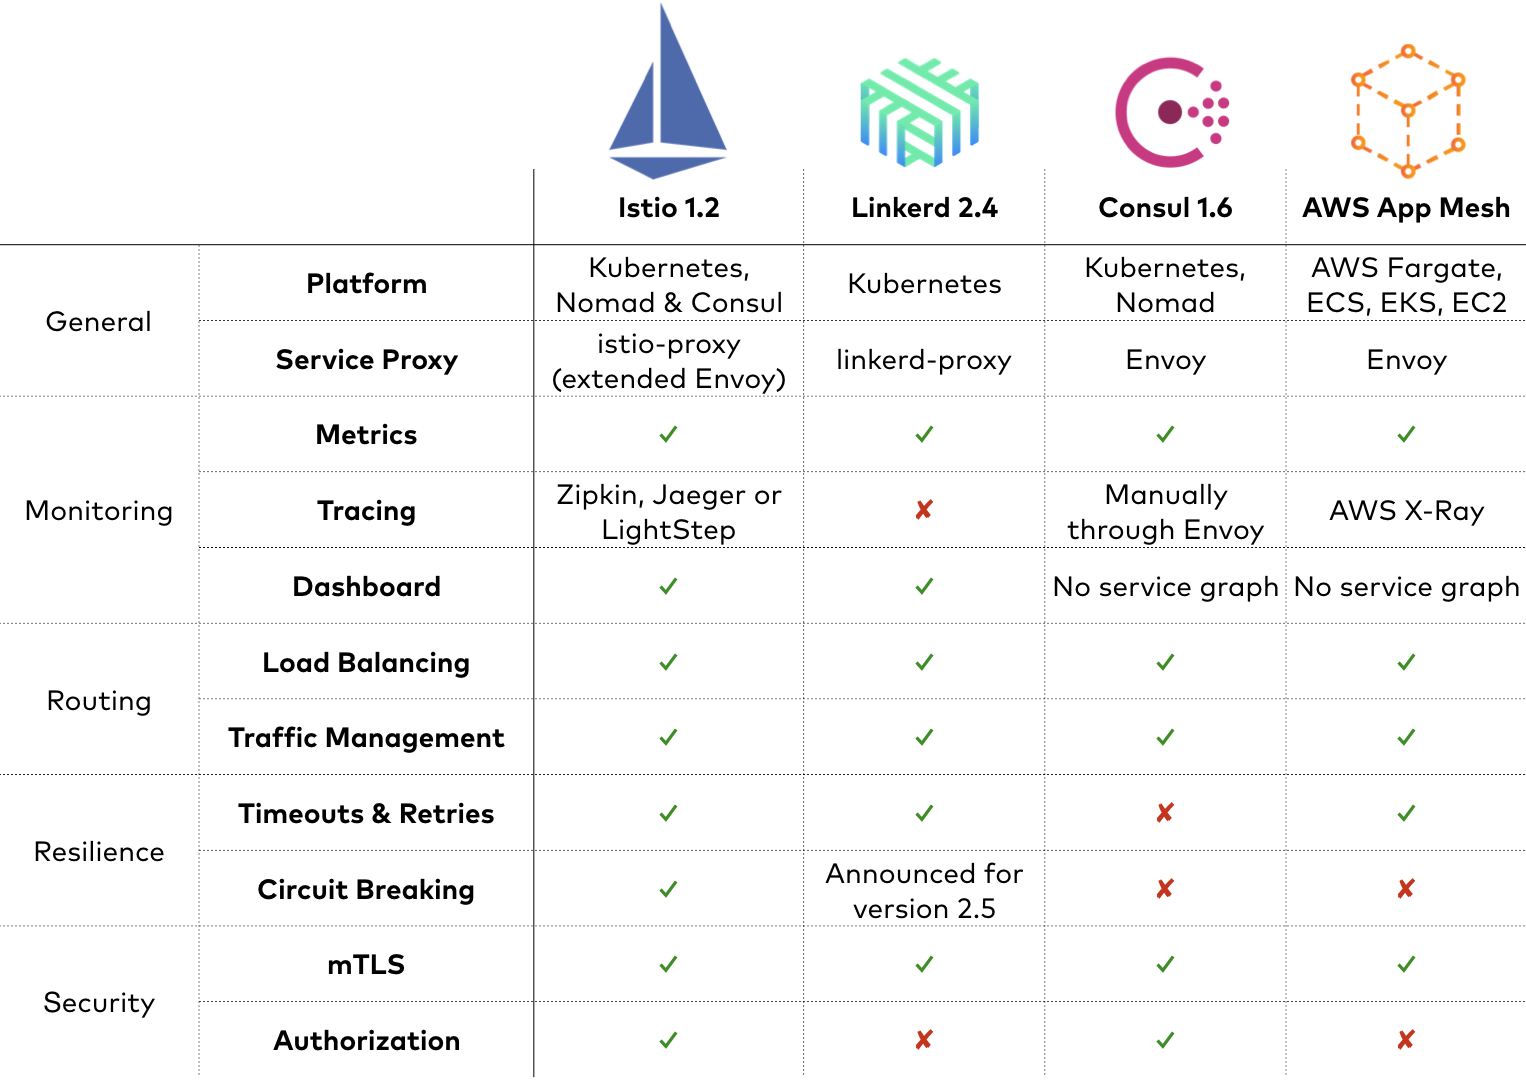
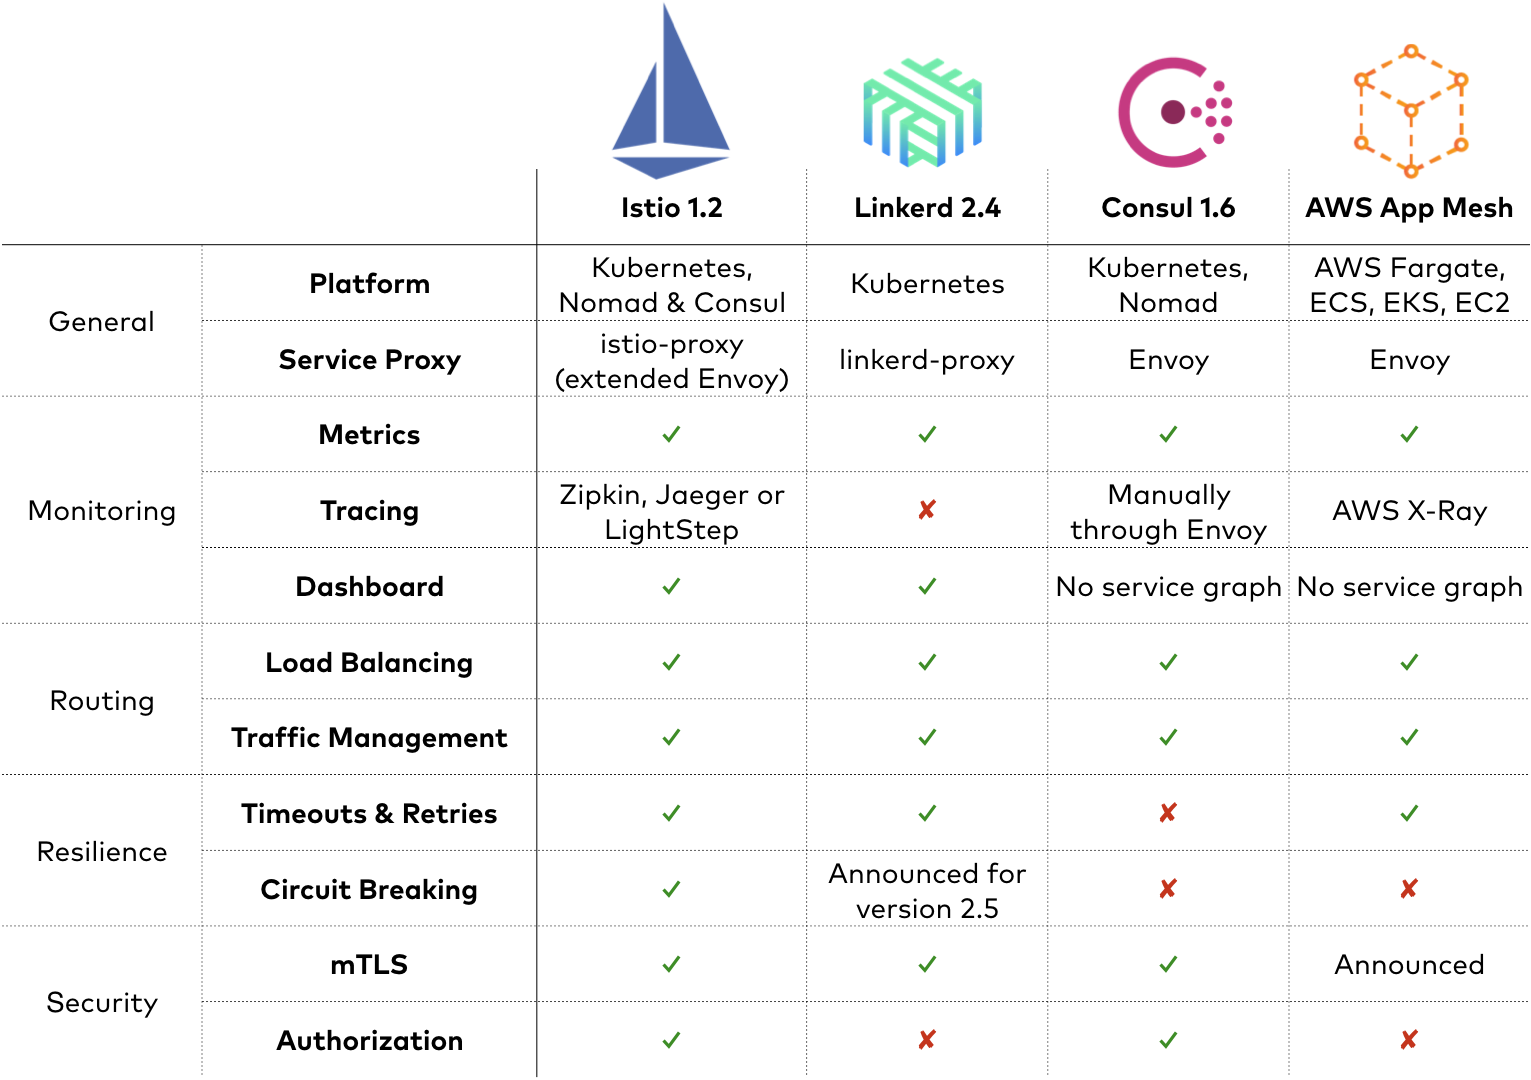
updated AWS mTLS

diff --git a/manuscript/05-Other-Service-Mesh.md b/manuscript/05-Other-Service-Mesh.md
@@ -22,7 +22,7 @@ Kubernetes CRD (Custom Resource Definition) and provides a carefully considered 
 
 ## AWS App Mesh {#section-other-aws-app-mesh}
 
-As the name suggests, [AWS App Mesh](http://aws.amazon.com/app-mesh/) is a service mesh developed for AWS. It was first introduced in November 2018. Like Istio and Consul, AWS App Mesh uses a pre-configured but customizable Envoy as service proxy and adds its own control plane. It is integrated with other AWS tools like CloudWatch for metrics and X-Ray for traces. AWS App Mesh already supports essential service mesh features like monitoring, routing and mTLS. AWS users can activate App Mesh in Fargate, EC2, EKS, and EC2 and add configuration through JSON. In Kubernetes environments, configuration can be applied through CRDs and applied by the [AWS App Mesh Controller](https://github.com/aws/aws-app-mesh-controller-for-k8s).
+As the name suggests, [AWS App Mesh](http://aws.amazon.com/app-mesh/) is a service mesh developed for AWS. It was first introduced in November 2018. Like Istio and Consul, AWS App Mesh uses a pre-configured but customizable Envoy as service proxy and adds its own control plane. It is integrated with other AWS tools like CloudWatch for metrics and X-Ray for traces. AWS App Mesh already supports essential service mesh features like monitoring and routing. AWS users can activate App Mesh in Fargate, EC2, EKS, and EC2 and add configuration through JSON. In Kubernetes environments, configuration can be applied through CRDs and applied by the [AWS App Mesh Controller](https://github.com/aws/aws-app-mesh-controller-for-k8s).
 
 AWS is the most recent service mesh implementation, but since AWS has the biggest market share for cloud computing, AWS App Mesh is expected to stay and grow.  
 
